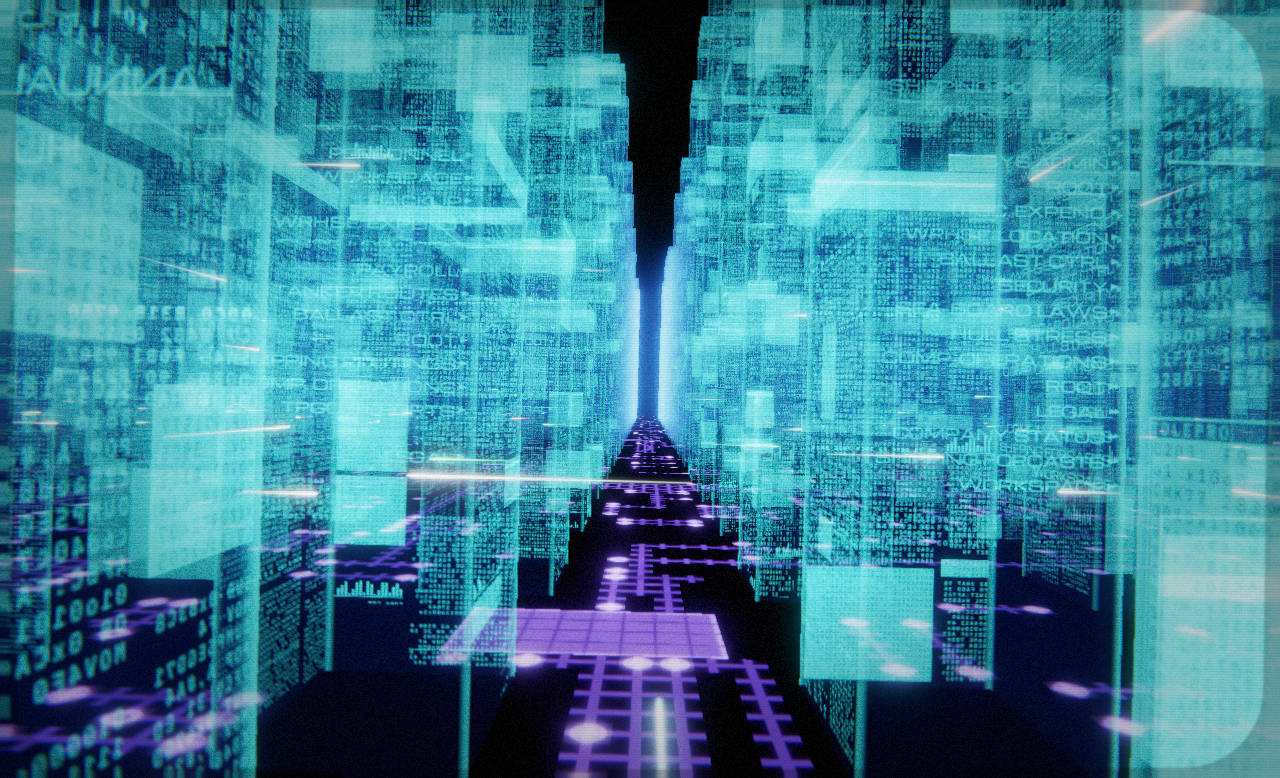
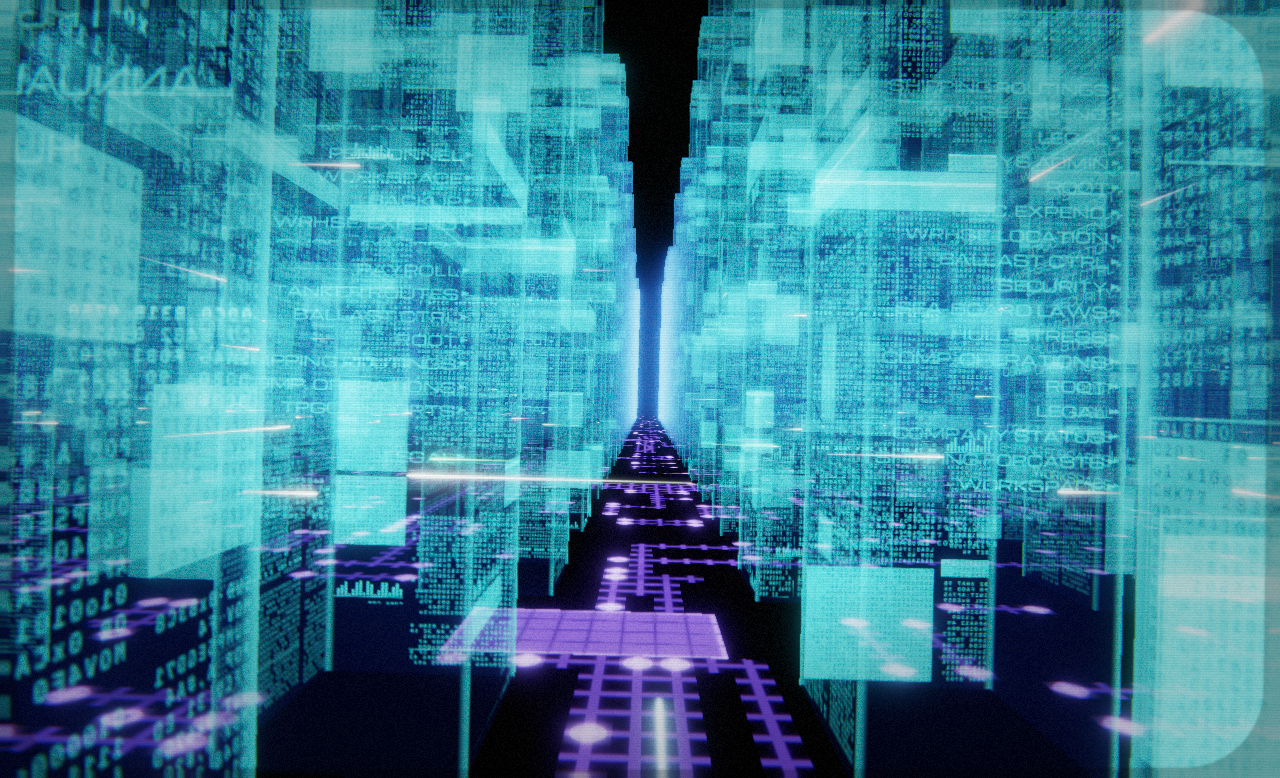
render: budget on-screen pixels, and mip the text atlas
The saver measured 15-23 fps at native Retina (2940x1912 = 5.6 Mpx). Cost is
fill-rate proportional at roughly 5 ms per megapixel, so resolution is the only
lever that reaches 60, and the owner chose a ~2.8 Mpx budget.

gibson-core now derives an effective scale that budgets PHYSICAL pixels against
gibson_types::MAX_ON_SCREEN_PIXELS (2.8e6) and lets the compositor upscale.
Settings::render_scale keeps its 1.0 default and still multiplies on top, so the
CLI flag, the config key, the web query parameter and the saver Options slider
all behave as before in both directions. The budget is re-derived on resize, so
dragging a window between a Retina and a non-Retina display re-adjusts, and the
derived scale and target size are logged.

Crucially the budget applies to Window and Raw targets only, never to Offscreen:
--snapshot --size WxH must keep returning exactly WxH, or the CI screenshots,
the saver thumbnails and the determinism tests would all silently change. There
is a test for that, and a 2940x1912 snapshot still decodes as 2940x1912.

One bug worth recording: the first version budgeted logical pixels, so a 1280x800
window at 2x reported 2560x1600 unchanged and nothing was capped. Caught by
running the windowed app rather than trusting the unit test.

Separately, the text atlas was sampled at mip 0 from every fragment regardless of
distance - a 256x768 layer inside a 64-layer, 50 MB array with effectively random
[…]

diff --git a/crates/gibson-core/src/lib.rs b/crates/gibson-core/src/lib.rs
@@ -62,6 +62,29 @@ pub struct Gibson {
     settings: Settings,
     /// Host time of the first `frame`/`snapshot` call; defines the scene's `t = 0`.
     t0: Option<f64>,
+    /// True when this instance presents to a surface (Window/Raw); offscreen instances are
+    /// never subject to the on-screen pixel budget.
+    on_screen: bool,
+    /// Last effective scale handed to the renderer (so resize only logs real changes).
+    last_scale: f32,
+}
+
+/// The scale actually handed to the renderer: the caller's scale times, for on-screen targets
+/// only, an automatic cap that keeps the render target inside [`MAX_ON_SCREEN_PIXELS`].
+///
+/// The budget is applied to the *physical* pixel count the caller's scale would produce
+/// (`width * scale` by `height * scale`), not to the logical size: a 1280x800 window on a 2x
+/// display renders 2560x1600 physical pixels and must be capped like any other 4.1 Mpx target.
+/// `auto = min(1.0, sqrt(MAX_ON_SCREEN_PIXELS / (w_phys * h_phys)))`. Offscreen targets use the
+/// caller's scale unchanged, so `--snapshot --size WxH` always produces exactly that size.
+fn effective_scale(on_screen: bool, width: u32, height: u32, scale: f32) -> f32 {
+    if !on_screen {
+        return scale;
+    }
+    let w_phys = (width.max(1) as f32) * scale;
+    let h_phys = (height.max(1) as f32) * scale;
+    let auto = (gibson_types::MAX_ON_SCREEN_PIXELS / (w_phys * h_phys)).sqrt().min(1.0);
+    scale * auto
 }
 
 impl Gibson {
@@ -88,6 +111,9 @@ impl Gibson {
         desc.backends = backends();
         let instance = wgpu::Instance::new(desc);
 
+        // Whether we present to a surface (Window/Raw) or render purely offscreen. This is the
+        // switch that decides if the on-screen pixel budget applies.
+        let on_screen = !matches!(target, SurfaceTarget::Offscreen);
         let surface = match target {
             SurfaceTarget::Window(t) => Some(
                 instance
@@ -106,7 +132,11 @@ impl Gibson {
         let mut scene = Scene::new(&settings, seed);
         scene.set_block_ids(atlas.blocks_per_panel.clone());
 
-        let renderer = Renderer::new(&instance, surface, width, height, scale, &atlas, &floor, &settings)
+        let renderer_scale = effective_scale(on_screen, width, height, scale);
+        log::info!("gibson-core: render target {}x{} (scale {renderer_scale:.3})",
+            ((width as f32) * renderer_scale).round().max(1.0) as u32,
+            ((height as f32) * renderer_scale).round().max(1.0) as u32);
+        let renderer = Renderer::new(&instance, surface, width, height, renderer_scale, &atlas, &floor, &settings)
             .await
             .map_err(GibsonError::Render)?;
 
@@ -115,12 +145,24 @@ impl Gibson {
             renderer,
             settings,
             t0: None,
+            on_screen,
+            last_scale: renderer_scale,
         })
     }
 
     /// Resize the presentation surface (and render target) in physical pixels.
+    ///
+    /// The on-screen pixel budget is re-derived here, so a window dragged from a Retina display
+    /// to a non-Retina one (or between differently sized displays) picks up the right cap.
     pub fn resize(&mut self, width: u32, height: u32, scale: f32) {
-        self.renderer.resize(width, height, scale);
+        let renderer_scale = effective_scale(self.on_screen, width, height, scale);
+        if renderer_scale != self.last_scale {
+            log::info!("gibson-core: render target {}x{} (scale {renderer_scale:.3})",
+                ((width as f32) * renderer_scale).round().max(1.0) as u32,
+                ((height as f32) * renderer_scale).round().max(1.0) as u32);
+            self.last_scale = renderer_scale;
+        }
+        self.renderer.resize(width, height, renderer_scale);
     }
 
     /// Advance the scene to `time_seconds` (host monotonic; the first call defines `t = 0`) and
@@ -200,4 +242,81 @@ fn time_derived_seed() -> u64 {
 #[cfg(target_arch = "wasm32")]
 fn time_derived_seed() -> u64 {
     0x6A63_6F72_655F_3030
+}
+
+#[cfg(test)]
+mod tests {
+    use super::*;
+
+    /// On-screen targets are capped to the pixel budget; the derived scale for the 2940x1912
+    /// screensaver drawable must land near 2078x1352.
+    #[test]
+    fn on_screen_scale_is_capped_to_the_budget() {
+        let scale = effective_scale(true, 2940, 1912, 1.0);
+        let (w, h) = (
+            (2940.0 * scale).round() as u32,
+            (1912.0 * scale).round() as u32,
+        );
+        assert!(
+            (2060..=2096).contains(&w) && (1334..=1370).contains(&h),
+            "expected ~2078x1352, got {w}x{h} (scale {scale})"
+        );
+        assert!(scale < 1.0);
+    }
+
+    /// Offscreen renders are never capped: `--snapshot --size 2940x1912` must stay 2940x1912.
+    #[test]
+    fn offscreen_scale_is_never_capped() {
+        assert_eq!(effective_scale(false, 2940, 1912, 1.0), 1.0);
+        assert_eq!(effective_scale(false, 8000, 8000, 0.75), 0.75);
+    }
+
+    /// A window already inside the budget keeps its scale exactly.
+    #[test]
+    fn small_window_is_untouched() {
+        assert_eq!(effective_scale(true, 1280, 800, 1.0), 1.0);
+        assert_eq!(effective_scale(true, 1600, 900, 1.0), 1.0);
+    }
+
+    /// The user's multiplier stays a multiplier: it scales on top of the automatic cap, and a
+    /// High-DPI window (1280x800 logical at 2x = 4.1 Mpx physical) is capped to the budget.
+    #[test]
+    fn render_scale_multiplies_on_top_of_the_cap() {
+        let auto = effective_scale(true, 1280, 800, 2.0);
+        assert!((1280.0 * auto - 1280.0 * 2.0 * 0.827).abs() < 6.0, "auto {auto}");
+        let (w, h) = (1280.0 * auto, 800.0 * auto);
+        let px = w * h;
+        assert!(
+            (px / gibson_types::MAX_ON_SCREEN_PIXELS - 1.0).abs() < 0.01,
+            "capped physical pixels {px} should sit at the budget"
+        );
+        // Under budget, the user's scale passes through untouched.
+        assert_eq!(effective_scale(true, 1280, 800, 1.0), 1.0);
+    }
+
+    /// End-to-end: an offscreen instance at the screensaver size still produces a snapshot of
+    /// exactly that size (the cap must not leak into the offscreen path). Skips (and passes)
+    /// when the machine has no usable GPU adapter.
+    #[test]
+    fn offscreen_snapshot_keeps_the_requested_size() {
+        let settings = Settings { seed: 7, ..Settings::default() };
+        let gibson = pollster::block_on(Gibson::new(
+            SurfaceTarget::Offscreen,
+            2940,
+            1912,
+            1.0,
+            settings,
+        ));
+        let mut gibson = match gibson {
+            Ok(g) => g,
+            Err(GibsonError::Render(RenderError::NoAdapter | RenderError::NoDevice(_))) => {
+                eprintln!("skipped: no graphics adapter/device available");
+                return;
+            }
+            Err(e) => panic!("offscreen renderer creation failed: {e}"),
+        };
+        let (w, h, rgba) = gibson.snapshot(0.0).expect("offscreen snapshot");
+        assert_eq!((w, h), (2940, 1912), "offscreen snapshot must keep the requested size");
+        assert_eq!(rgba.len(), 2940 * 1912 * 4);
+    }
 }

diff --git a/crates/gibson-render/src/lib.rs b/crates/gibson-render/src/lib.rs
@@ -155,7 +155,7 @@ fn atlas_sampler(device: &wgpu::Device) -> wgpu::Sampler {
         address_mode_w: wgpu::AddressMode::ClampToEdge,
         mag_filter: wgpu::FilterMode::Linear,
         min_filter: wgpu::FilterMode::Linear,
-        mipmap_filter: wgpu::MipmapFilterMode::Nearest,
+        mipmap_filter: wgpu::MipmapFilterMode::Linear,
         ..Default::default()
     })
 }
@@ -204,7 +204,17 @@ fn scene_bgl(device: &wgpu::Device) -> wgpu::BindGroupLayout {
     })
 }
 
+/// Mip levels for the atlas: 256x768 -> 128x384 -> 64x192.
+///
+/// Mipmapped sampling is the standard real-time fix for minified texture reads: without it
+/// every distant text fragment fetches four texels from a 256x768 x 64-layer array, which
+/// thrashes the texture cache (and aliases) for the many mid/far faces a canyon view stacks.
+/// Only the R (glyph coverage) channel is meaningful when filtered; the block metadata fetch
+/// uses `textureLoad`, which always reads level 0.
+const ATLAS_MIPS: u32 = 3;
+
 fn upload_atlas(device: &wgpu::Device, queue: &wgpu::Queue, atlas: &AtlasImage) -> wgpu::Texture {
+    let started = std::time::Instant::now();
     let tex = device.create_texture(&wgpu::TextureDescriptor {
         label: Some("gibson-atlas"),
         size: wgpu::Extent3d {
@@ -212,7 +222,7 @@ fn upload_atlas(device: &wgpu::Device, queue: &wgpu::Queue, atlas: &AtlasImage) 
             height: atlas.height,
             depth_or_array_layers: atlas.layers,
         },
-        mip_level_count: 1,
+        mip_level_count: ATLAS_MIPS,
         sample_count: 1,
         dimension: wgpu::TextureDimension::D2,
         format: wgpu::TextureFormat::Rgba8Unorm,
@@ -238,6 +248,67 @@ fn upload_atlas(device: &wgpu::Device, queue: &wgpu::Queue, atlas: &AtlasImage) 
             height: atlas.height,
             depth_or_array_layers: atlas.layers,
         },
+    );
+
+    // Box-filter the remaining levels on the CPU (once, at startup) and upload them
+    // layer-major, exactly like level 0.
+    let layers = atlas.layers as usize;
+    let mut src = atlas.rgba.clone();
+    let (mut w, mut h) = (atlas.width, atlas.height);
+    for mip in 1..ATLAS_MIPS {
+        let (nw, nh) = ((w / 2).max(1), (h / 2).max(1));
+        let src_layer = (w * h * 4) as usize;
+        let dst_layer = (nw * nh * 4) as usize;
+        let mut dst = vec![0u8; dst_layer * layers];
+        for layer in 0..layers {
+            let s = &src[layer * src_layer..(layer + 1) * src_layer];
+            let d = &mut dst[layer * dst_layer..(layer + 1) * dst_layer];
+            for y in 0..nh as usize {
+                for x in 0..nw as usize {
+                    let mut acc = [0u32; 4];
+                    for dy in 0..2 {
+                        for dx in 0..2 {
+                            let sx = (x * 2 + dx).min(w as usize - 1);
+                            let sy = (y * 2 + dy).min(h as usize - 1);
+                            let i = (sy * w as usize + sx) * 4;
+                            for c in 0..4 {
+                                acc[c] += s[i + c] as u32;
+                            }
+                        }
+                    }
+                    let o = (y * nw as usize + x) * 4;
+                    for c in 0..4 {
+                        d[o + c] = (acc[c] / 4) as u8;
+                    }
+                }
+            }
+        }
+        queue.write_texture(
+            wgpu::TexelCopyTextureInfo {
+                texture: &tex,
+                mip_level: mip,
+                origin: wgpu::Origin3d::ZERO,
+                aspect: wgpu::TextureAspect::All,
+            },
+            &dst,
+            wgpu::TexelCopyBufferLayout {
+                offset: 0,
+                bytes_per_row: Some(nw * 4),
+                rows_per_image: Some(nh),
+            },
+            wgpu::Extent3d {
+                width: nw,
+                height: nh,
+                depth_or_array_layers: atlas.layers,
+            },
+        );
+        src = dst;
+        w = nw;
+        h = nh;
+    }
+    log::debug!(
+        "gibson-render: atlas uploaded with {ATLAS_MIPS} mips in {:.1} ms",
+        started.elapsed().as_secs_f64() * 1000.0
     );
     tex
 }

diff --git a/crates/gibson-types/src/lib.rs b/crates/gibson-types/src/lib.rs
@@ -38,6 +38,17 @@ pub const ATLAS_LAYERS: u32 = 64;
 pub const FOG_START: f32 = 220.0;
 pub const FOG_END: f32 = 900.0;
 
+/// Pixel budget for a live (on-screen) render target: 2.8 Mpx.
+///
+/// Rendering cost is fill-rate proportional - measured on an Apple M3 at roughly 5 ms per
+/// megapixel for the full chain (towers, bloom, motion blur, CRT composite) - so a 2940x1912
+/// screensaver drawable (5.6 Mpx) costs ~28 ms/frame (25-36 fps) while this budget costs about
+/// half that and keeps a 60 Hz frame achievable. Above this, extra pixels buy detail nobody
+/// sees in motion; the window's compositor upscales instead. Hosts apply this only to surfaces
+/// they present to (`SurfaceTarget::Window` / `Raw`); offscreen renders (snapshots, CI) are
+/// never capped.
+pub const MAX_ON_SCREEN_PIXELS: f32 = 2.8e6;
+
 /// User-adjustable settings. Serialized by hosts (`.saver` defaults, `gibson.toml`, web query
 /// params); `clamped()` normalizes any input (config files, CLI, query strings) to valid ranges.
 #[derive(Clone, Debug, PartialEq, serde::Serialize, serde::Deserialize)]

diff --git a/README.md b/README.md
@@ -258,6 +258,17 @@ never put the renderer out of bounds.
 | `seed` | 0 | any 64-bit integer | City, atlas, and floor seed; 0 derives one from the clock |
 | `preview` | false | true / false | Screensaver-preview mode; hosts set this themselves |
 
+**High-DPI rendering is capped automatically.** On screen (desktop window, macOS
+saver, xscreensaver hack, Windows `.scr`, web canvas) the render target is capped
+at 2.8 megapixels, whatever the display resolution: a 2940x1912 saver drawable
+renders at about 2078x1352 and the compositor upscales. Rendering cost is
+fill-rate proportional (~5 ms per megapixel), so the cap is what keeps a 60 Hz
+frame achievable, and above it the extra pixels are detail nobody sees in motion.
+`render_scale` is unchanged and still multiplies on top of the cap, so the
+slider/setting works in both directions (a 0.5 there halves the capped target
+again). Offscreen renders are never capped: `--snapshot --size WxH` always
+produces exactly `WxH`, which is what the committed screenshots and CI rely on.
+
 Where each host stores or accepts them:
 
 - **macOS Options sheet** (System Settings > Wallpaper > Screen Saver >
